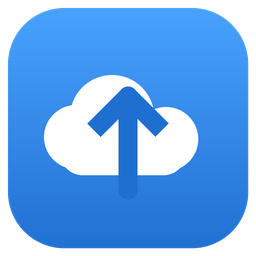
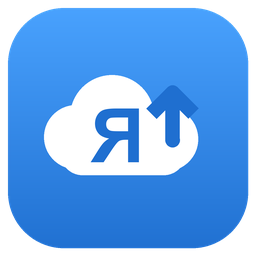
Буква «Я» в облаке и выпуск релиза по тегу
В списке мест хранения копий облаков может быть несколько, и по одному
силуэту не видно, чьё это. Буква набрана обычным жирным гротеском на своём
поле — фирменное начертание Яндекса не копируется.

Релиз больше не делают руками: пуш тега vX.Y.Z собирает заметки из коммитов
и публикует релиз, попутно сверяя версию в manifest с тегом. Без релиза HACS
показывает в карточке хеш коммита вместо версии.

Рядом — проверки на каждый пуш: тесты, валидация HACS, hassfest.

Changed region(s): [[0.3438, 0.3125, 0.7812, 0.6875]]

diff --git a/brand/make_icon.py b/brand/make_icon.py
@@ -1,21 +1,43 @@
-"""Иконка интеграции: облако со стрелкой вверх на синем поле.
+"""Иконка интеграции: облако с буквой «Я» и стрелкой вверх.
+
+Буква нужна, чтобы с одного взгляда было видно, чьё это облако — в списке
+мест хранения копий их может быть несколько. Фирменное начертание Яндекса
+при этом не копируется: буква набрана обычным жирным гротеском на своём
+поле, а не белым по красному квадрату, который является товарным знаком.
 
 Рисуется кодом, а не хранится картинкой, чтобы её можно было пересобрать в
-любом размере — brands Home Assistant просит и 256, и 512. Логотип Яндекса
-намеренно не используется: это чужой товарный знак.
+любом размере — brands Home Assistant просит и 256, и 512.
 """
 
 from __future__ import annotations
 
 import sys
 
-from PIL import Image, ImageDraw
+from PIL import Image, ImageDraw, ImageFont
 
 TOP = (74, 163, 255)
 BOTTOM = (31, 111, 208)
 CLOUD = (255, 255, 255)
 
 S = 1024  # рисуем крупно и уменьшаем — так края выходят гладкими
+
+#: Жирный гротеск с кириллицей. Первый попавшийся из списка, иначе буквы
+#: не будет вовсе — молча рисовать облако без «Я» хуже, чем упасть.
+FONTS = (
+    "/System/Library/Fonts/Supplemental/Arial Bold.ttf",
+    "/System/Library/Fonts/Supplemental/Arial Black.ttf",
+    "/usr/share/fonts/truetype/dejavu/DejaVuSans-Bold.ttf",
+    "/usr/share/fonts/truetype/liberation/LiberationSans-Bold.ttf",
+)
+
+
+def _font(size: int) -> ImageFont.FreeTypeFont:
+    for path in FONTS:
+        try:
+            return ImageFont.truetype(path, size)
+        except OSError:
+            continue
+    raise SystemExit("не нашёл жирный шрифт с кириллицей — см. FONTS")
 
 
 def render(size: int) -> Image.Image:
@@ -42,12 +64,16 @@ def render(size: int) -> Image.Image:
     draw.ellipse((536, 428, 792, 684), fill=CLOUD)
     draw.rounded_rectangle((240, 520, 744, 700), radius=90, fill=CLOUD)
 
-    # стрелка вверх — знак того, что копии уезжают наружу
-    draw.line((512, 760, 512, 400), fill=BOTTOM, width=76)
-    draw.line((376, 520, 512, 384), fill=BOTTOM, width=76)
-    draw.line((648, 520, 512, 384), fill=BOTTOM, width=76)
-    draw.ellipse((474, 346, 550, 422), fill=BOTTOM)
-    draw.ellipse((474, 722, 550, 798), fill=BOTTOM)
+    # буква — чьё это облако
+    font = _font(300)
+    draw.text((470, 545), "Я", font=font, fill=BOTTOM, anchor="mm")
+
+    # стрелка вверх — копии уезжают наружу; сбоку, чтобы не спорить с буквой
+    draw.line((690, 560, 690, 370), fill=BOTTOM, width=58)
+    draw.line((606, 454, 690, 370), fill=BOTTOM, width=58)
+    draw.line((774, 454, 690, 370), fill=BOTTOM, width=58)
+    draw.ellipse((661, 341, 719, 399), fill=BOTTOM)
+    draw.ellipse((661, 531, 719, 589), fill=BOTTOM)
 
     return base.resize((size, size), Image.LANCZOS)
 
